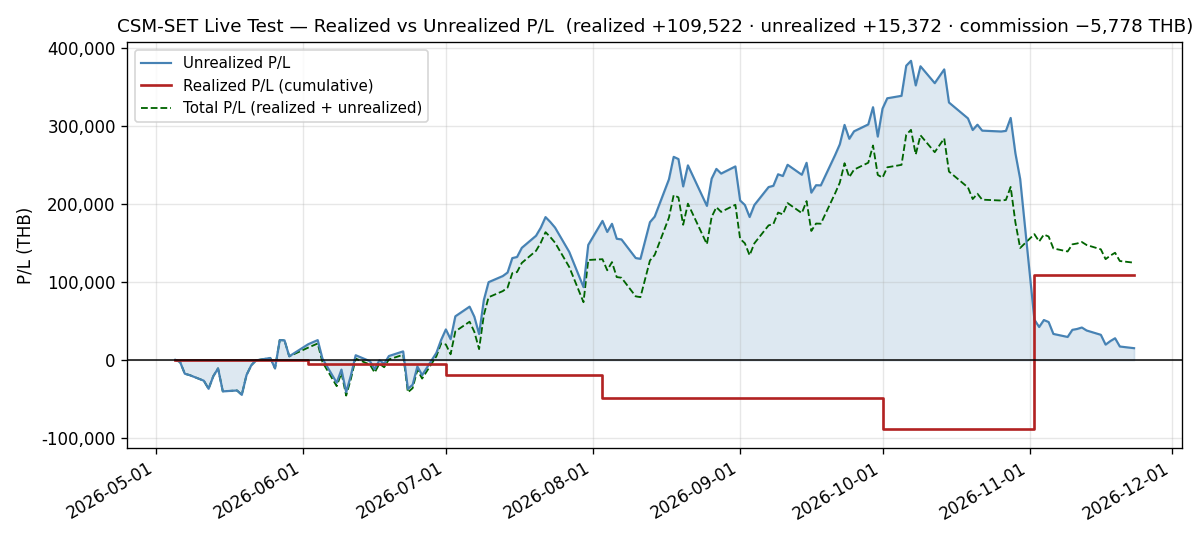
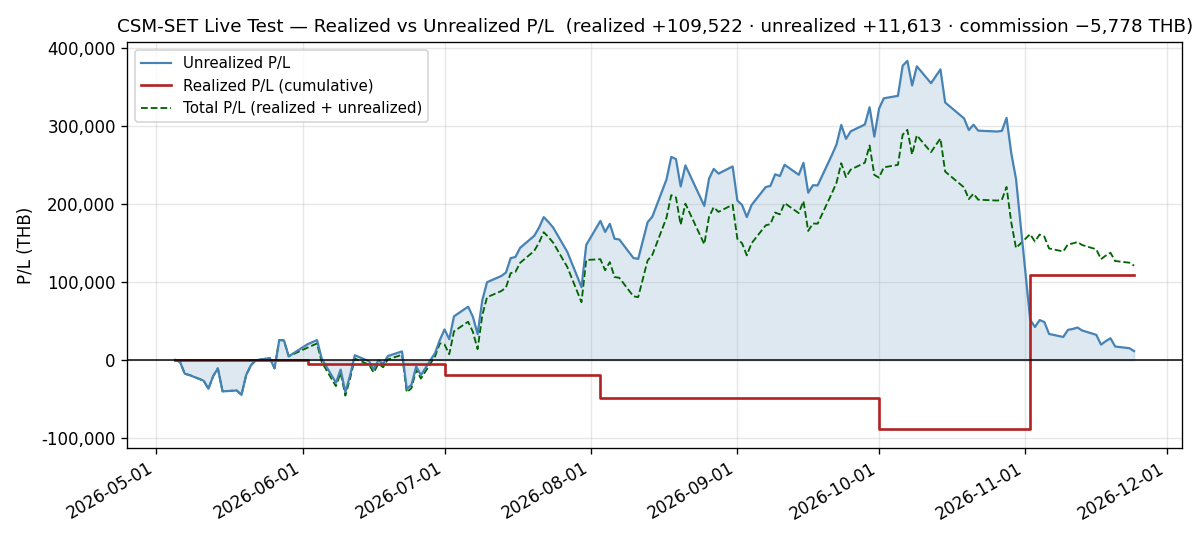
docs(live-test): add daily log for 2026-11-24 (scored session 17 of 40)
NAV 1,239,524.32 THB, -3,759.00 (-0.3023%); window -1.7934%. Three names
rose and seven fell; IRPC -4.59% and CNT -9.02% led, and SMT went below
cost, so six of ten are below cost. The breaker stays TRIPPED at a rolling
drawdown of -12.3071%, the deepest in the published NAV series; the regime
stays BEAR and the SET closed at its lowest since 2026-03-31. One universe
fetch (a name the book does not hold) failed its WebSocket connect and
succeeded on retry. pnl.csv row and the P/L chart regenerated; the three NAV
charts are byte-identical.

Claude-Session: https://claude.ai/code/session_01VKyqnmKmz6Hh9ErHRFMhFr

diff --git a/docs/live-test/daily/2026-11-24.md b/docs/live-test/daily/2026-11-24.md
@@ -1,0 +1,289 @@
+# Daily Log — 2026-11-24 (Tuesday)
+
+**As of:** 2026-11-24, Asia/Bangkok
+**Phase:** D — Final Evaluation & Documentation
+**Day:** 139 / 23 trading days remaining in 2026
+**Status:** 🟢 **SCORED — session 17 of 40 in the registered window** (`reports/2026-10-27-forward-scoring-pre-registration.md`). **NAV closes at 1,239,524.32 THB, −3,759.00 (−0.3023%) on the session and −1.7934% on NAV₀ = 1,262,159.89**, its lowest close since 2026-08-11. **Three names rose and seven fell**; IRPC −4.59% and CNT −9.02% led, and SMT went below cost, so **six of ten are now below cost**. 🔴 **The circuit breaker stays TRIPPED**, its rolling drawdown deepening to **−12.3071%**, the deepest in the published NAV series. 🔴 **The regime stays BEAR**; the SET fell −0.1953% to its lowest close since 2026-03-31. 🟢 **The sixth scheduled refresh on image `239921e2a7bd` completed** (211 / 0); one universe fetch needed a retry, which worked (Risk Note 6). ⚠ **106 of 959 holiday polls banked** since the settfex 0.26.3 upgrade (Risk Note 7). Total Return on NAV is **+10.67%**.
+
+---
+
+## Execution Summary
+
+**No trades today.** The book is the one recorded from the 2026-11-02 rotation (`configs/live_portfolio.yaml` at `2f846b0`), unchanged since. Realized P/L for the session is **0.00 THB** and no commission was paid. **The breaker's safe mode acts only at a month-end evaluation**, so equity at 17.0507% of NAV creates no trade. The next evaluation is **2026-11-30** (registration §3).
+
+---
+
+## Portfolio Snapshot
+
+> 🟢 **Every figure in this section is SCORED-WINDOW data, session 17.** It is `configs/live_portfolio.yaml` at `2f846b0` repriced against the 2026-11-24 bar of `data/processed/prices_latest.parquet`, and it **equals** the `db_gateway.daily_performance` row the 18:00 refresh wrote.
+
+`Avg Cost` is the commission-inclusive per-share basis carried from `configs/live_portfolio.yaml` (4-decimal precision); `Cost Basis = shares × Avg Cost`, and `U.PL % = MV / Cost Basis − 1`.
+
+| # | Symbol | Shares | Avg Cost | Last Price | Market Value (THB) | Cost Basis (THB) | U.PL % |
+|---|--------|-------:|---------:|-----------:|--------------------:|-----------------:|-------:|
+| 1 | IRPC | 11,300 | 2.3037 | 2.08 | 23,504.00 | 26,031.81 | −9.71% |
+| 2 | HANA | 600 | 35.8070 | 46.00 | 27,600.00 | 21,484.20 | +28.47% |
+| 3 | GUNKUL | 6,100 | 2.9246 | 4.54 | 27,694.00 | 17,840.06 | +55.23% |
+| 4 | INSET | 8,400 | 3.0848 | 3.34 | 28,056.00 | 25,912.32 | +8.27% |
+| 5 | KCE | 500 | 39.0655 | 53.25 | 26,625.00 | 19,532.75 | +36.31% |
+| 6 | EPG | 3,400 | 5.9099 | 5.28 | 17,952.00 | 20,093.66 | −10.66% |
+| 7 | SMT | 4,000 | 5.8097 | 5.68 | 22,720.00 | 23,238.80 | −2.23% |
+| 8 | CNT | 3,600 | 3.3456 | 2.22 | 7,992.00 | 12,044.16 | −33.64% |
+| 9 | SPRC | 1,200 | 13.8232 | 12.20 | 14,640.00 | 16,587.84 | −11.74% |
+| 10 | SSP | 2,200 | 7.7129 | 6.62 | 14,564.00 | 16,968.38 | −14.17% |
+
+### Portfolio summary
+
+| Metric | Value |
+|--------|-------|
+| Total Cost Basis | 199,733.98 THB |
+| Total Market Value | 211,347.00 THB |
+| Unrealized P/L | +11,613.02 THB (+5.81%) |
+| Realized P/L (today) | 0.00 THB |
+| Realized P/L (cumulative, since inception) | **+109,521.83 THB** |
+| Commission paid (cumulative) | **−5,777.54 THB** |
+
+### Account summary
+
+| Metric | Value |
+|--------|-------|
+| Remaining Cash | 1,028,177.32 THB |
+| Total NAV | 1,239,524.32 THB |
+| Total Return on NAV | +10.67% |
+
+> **Cost-basis note:** Total Cost Basis is **199,733.98 THB**, equal to Σ per-symbol `shares × avg_cost` with a **0.00** delta, unchanged since the rotation.
+>
+> **Above/below cost: 4 up / 6 down.** **SMT** (−2.23%) went below cost and joined **CNT** (−33.64%), **SSP** (−14.17%), **SPRC** (−11.74%), **EPG** (−10.66%) and **IRPC** (−9.71%). HANA, GUNKUL, INSET and KCE are above.
+>
+> **Equity is 17.0507% of NAV** (211,347.00 of 1,239,524.32), down from 17.3014%. The breaker acts only at the month-end evaluation.
+>
+> **Total P/L check:** realized + unrealized = 109,521.83 + 11,613.02 = **+121,134.85 THB**, down from +124,893.85 by **3,759.00**, exactly the session's NAV change.
+
+---
+
+## Day-over-Day Change (vs Monday November 23)
+
+| Symbol | Nov 23 Close | Nov 24 Close | Change | Change % | MV Contribution (THB) |
+|--------|-------------:|-------------:|-------:|---------:|----------------------:|
+| HANA | 45.50 | 46.00 | +0.50 | +1.10% | +300.00 |
+| KCE | 53.00 | 53.25 | +0.25 | +0.47% | +125.00 |
+| EPG | 5.26 | 5.28 | +0.02 | +0.38% | +68.00 |
+| GUNKUL | 4.60 | 4.54 | -0.06 | -1.30% | -366.00 |
+| INSET | 3.40 | 3.34 | -0.06 | -1.76% | -504.00 |
+| SPRC | 12.45 | 12.20 | -0.25 | -2.01% | -300.00 |
+| SSP | 6.82 | 6.62 | -0.20 | -2.93% | -440.00 |
+| SMT | 5.86 | 5.68 | -0.18 | -3.07% | -720.00 |
+| IRPC | 2.18 | 2.08 | -0.10 | -4.59% | -1,130.00 |
+| CNT | 2.44 | 2.22 | -0.22 | -9.02% | -792.00 |
+| **Total** | | | | **-1.75%** | **-3,759.00** |
+
+**Breadth: 3 up, 7 down, 0 flat.**
+
+> The `Change %` on the Total row is the **market-value** change (−3,759.00 / 215,106.00 = −1.7475%), not the NAV change (−3,759.00 / 1,243,283.32 = −0.3023%). They differ by the cash in the NAV denominator, 82.70% of the prior session's NAV in safe mode.
+>
+> 🟢 **Every `Nov 23 Close` above is the published one, and the current panel agrees on all ten names**, so no held name was restated on this session.
+
+**Seven names fell; the three risers added +493.00 against −4,252.00.**
+
+- **IRPC −4.59% (−1,130.00)** was the session's largest loss in THB, its largest fall since 2026-11-20. It closed at its lowest since 2026-07-30, and its U.PL is −9.71%.
+- **CNT −9.02% (−792.00)** was the largest fall in percent. It closed at its lowest since 2026-08-14, and its U.PL is −33.64%. Over the two sessions since 2026-11-20 it is down −26.00%, from 3.00 to 2.22.
+- **SMT −3.07% (−720.00)** is its largest fall since 2026-11-20 and its lowest close since 2026-09-14. Its U.PL went from +0.87% to −2.23%.
+- **SPRC** closed at its lowest since 2026-08-25 and **INSET** at its lowest since 2026-06-11.
+- **HANA +1.10% (+300.00)**, **KCE +0.47% (+125.00)** and **EPG +0.38% (+68.00)** were the only risers.
+- **NAV is at its lowest since 2026-08-11.**
+- **The book fell −0.3023% and the SET −0.1953%**, a **−0.1071pp** difference. It is a same-session arithmetic result for a book that is 82.95% cash, not a performance comparison (Market Context).
+
+No cause is stated for any of these moves; none was looked up.
+
+---
+
+## Market Context
+
+| Indicator | Value | Source |
+|-----------|-------|--------|
+| SET Index | 1,451.65 | tvkit (TradingView) |
+| SET Open / High / Low | 1,471.03 / 1,471.03 / 1,451.65 | tvkit |
+| SET 200-day SMA | 1,530.1868 | tvkit (TradingView) |
+| Regime Estimate | BEAR | SET −5.13% below SMA200 |
+
+> ⚠ **This is context, NOT a benchmark comparison, and it must not be read as one.**
+>
+> - **Different price bases.** `SET:SET` is a **price index**; the strategy series above is priced on **dividend-adjusted** bars (since `e04a292`, 2026-08-09). The difference is one-sided in the strategy's favour, and it is not small: measured 2026-09-11 over 2024-03-19 → 2026-09-10, the dividend adjustment is worth **+12.09 percentage points** on this universe, roughly **+4.8%/yr**.
+> - **No alpha, excess return or outperformance figure is computed anywhere in this log.** The registration's tracking error against this index is reported in Risk Note 1 as a risk metric (§5).
+
+---
+
+## Regime State
+
+- **Detected regime:** 🔴 **BEAR**, the seventeenth session. SET (1,451.65) is **below** SMA200 (1,530.1868) by −5.1325%.
+- **SMA200 position:** 1,530.1868, with the SET closing 78.54 points under it.
+- **3-month return:** −9.83% (window-sensitive — see Notes).
+- **The engine's own `RegimeDetector.detect()` also returns BEAR**: price below SMA200, and a 63-session return of **−9.05%** against its −5% threshold.
+- **No regime-driven action under the registration.** The regime filter is not one of the registered rules (§4). The SET closed −5.98% below its own EMA100 and −3.85% below its EMA200; both are reported and not applied.
+
+**The last six closes read 1,474.68 → 1,472.01 → 1,472.64 → 1,453.28 → 1,454.49 → 1,451.65.**
+
+- **Today:** a **−2.84 point, −0.1953%** session. The index is **−10.4964%** below the 2026-09-08 high.
+- **The SET's lowest close since 2026-03-31**, on bars fetched back to 2020-09-15.
+- **Range:** **19.38 points**, against 14.05 the prior session. The index opened at its high of 1,471.03 and closed at its low of 1,451.65.
+- **Cushion fell −4.9105% → −5.1325%, a −0.2220pp step**, to its lowest since 2025-07-24. SMA200 rose to **1,530.1868** (+0.5860).
+- **A BEAR→BULL crossing needs the index 78.54 points higher**, +5.41% at today's SMA200.
+
+The 3-month figure moved from −9.65% to −9.83%, its start bar moving from 2026-08-19 (1,609.76) to 2026-08-20 (1,609.99).
+
+---
+
+## Sector Concentration
+
+Groupings are SET-official, as on 2026-11-02. The book is held at about 20% equity by the breaker's safe mode.
+
+| Sector | Market Value (THB) | % of NAV | % of stocks held | Limit (NAV) | Status |
+|--------|--------------------:|---------:|-----------------:|-------------|--------|
+| Energy & Utilities (ENERG) | 80,402 | 6.4865% | 38.0427% | 35% | OK on NAV |
+| Electronic Components (ETRON) | 76,945 | 6.2076% | 36.4070% | 35% | OK on NAV |
+| ICT | 28,056 | 2.2634% | 13.2749% | 35% | OK |
+| Construction Materials (CONMAT) | 17,952 | 1.4483% | 8.4941% | 35% | OK |
+| Construction Services (CONS) | 7,992 | 0.6448% | 3.7815% | — | below the 5% floor by ruling I5 |
+
+- **ENERG fell −0.1603pp to 6.4865%**, with all four of its names lower (IRPC, SSP, SPRC, GUNKUL), and **still leads**. ETRON −0.0050pp: HANA and KCE rose and SMT fell. ICT −0.0337pp on INSET, CONS −0.0617pp on CNT, CONMAT +0.0099pp on EPG.
+- **The 35% cap is measured on NAV** (I2), and no sector is near it.
+- **As a share of the stocks held, ENERG is 38.04% and ETRON 36.41%.** The two hold 74.45% of the equity sleeve between them. This is recorded for context; it is not the registered measure.
+- **Every position is below the 5% floor**, between 0.6448% (CNT) and 2.2634% (INSET) of NAV. The breaker governs the band (I5), so **these are not deviations**.
+
+---
+
+## Risk Notes
+
+1. 🟢 **SCORED SESSION 17 OF 40.**
+
+   | Measure (registration §5) | Value |
+   |---|---|
+   | NAV₀ (2026-10-30 close) | 1,262,159.89 |
+   | NAV₁₆ (2026-11-23 close) | 1,243,283.32 |
+   | NAV₁₇ (2026-11-24 close) | 1,239,524.32 |
+   | r₁₇ = NAV₁₇ / NAV₁₆ − 1 | **−0.3023%** |
+   | Window return to date | **−1.7934%** |
+   | Max drawdown to date (running peak from NAV₀) | **−3.1503%** (2026-11-24, from the 2026-11-02 peak) |
+   | Annualized volatility (n = 17) | 10.69% |
+   | Sharpe, rf = 2% (n = 17) · rf = 0 | −2.65 · −2.46 |
+   | Tracking error vs `SET:SET` (n = 17) | 11.52% |
+
+   **Seventeen returns carry almost no information**, and annualizing them magnifies that. **No criterion is graded before the window ends** (2026-12-30), and §9's power statement applies to every figure here.
+2. 🟢 **DB — no restatement on this session.**
+   - **`daily_performance` equals this log.** The row reads **1,239,524.32, cash 1,028,177.32**, and today's `equity_curve` row agrees.
+   - **`daily_return` reads −0.3023%**, equal to this log's day-over-day change to within 1×10⁻¹⁹, because no held name was restated.
+   - `cumulative_return` and `combined_drawdown` both read −3.1415%. They are measured from `entry_date` 2026-11-02 on the basis restated for GUNKUL's ex-dividend date (the 2026-11-20 log, Risk Note 2), and they are not the scored series (§5). On the published basis the same span is −3.1503%, the max drawdown in Risk Note 1.
+3. 🔴 **CIRCUIT BREAKER — TRIPPED, threaded one session (I4).**
+   - **Procedure:** `DrawdownCircuitBreaker` with the recorded parameters (60 sessions, −10% trip, −5% recovery held 21 sessions), called with the state carried from 2026-11-23 (TRIPPED, recovery progress 0) on the published NAV series. It returns **TRIPPED**, rolling drawdown **−12.3071%**, equity fraction **0.20**, no transition.
+   - The drawdown deepened from −12.0412% on 2026-11-23, so it is again **the deepest in the published NAV series**. **Recovery needs it above −5%**, so the state does not move.
+   - The 2026-10-07 peak (1,413,483.89) is still the window's high.
+   - **Recovery** starts when the rolling drawdown rises above −5%, at NAV **1,342,809.70**. That is **103,285.38 (+8.3327%)** above today's NAV. From a book 17.05% in stocks, it needs the equity sleeve to rise about **48.87%**.
+   - **The 1,064,000 THB line** (5% below `starting_nav`) has NAV **+175,524.32** (14.16%) above it. Under the registration it is a reporting line and carries no action.
+4. 🔴 **REGIME — BEAR, the seventeenth session** (Regime State). Under the registration it changes nothing. The transition is recorded in `events/2026-11-02-regime-transition-bull-to-bear.md`.
+5. 🟢 **EXECUTION — CLOSED** by the operator's ruling of 2026-11-04: the operator places every order by hand (registration §12; `events/2026-11-03-rotation-orders-placed-as-limit-orders.md`). Nothing changed since.
+6. 🟢 **REFRESH — the sixth scheduled firing on image `239921e2a7bd` completed with zero failures.** It started at 11:00:00Z and completed at 11:02:03Z with receipt 211 / 0, in 121.305 s.
+   - **One fetch needed a second attempt, and the retry worked.** At 11:01:41.970Z tvkit logged the ERROR *"Failed to establish WebSocket connection"* while fetching `SET:WIIK`, which the book does not hold. The loader logged *"Transient error fetching SET:WIIK (attempt 1/4)"* and retried, and the retry fetched 600 bars at 11:01:42.707Z. It is the first ERROR line in this container's log.
+   - **Both phases completed on their first phase attempt** (`retry_attempts_used=0`): held `requested=10 recovered=10 still_failing=0`, universe `requested=201 recovered=201 still_failing=0`.
+   - **No bound fired.** The container log since the image started holds no "Failed to fetch symbol" line, no "timed out" line and no "daily_refresh exceeded" line. [[TK-0657]]
+7. ⚠ **HOLIDAY POLL — 106 of 959 polls banked since the settfex 0.26.3 upgrade (11.1%); 46 of 380 on the current image.**
+
+   | Window | Image | Poll runs | Banked | Failure lines |
+   |---|---|---:|---:|---|
+   | 2026-11-04T12:20:14Z → 2026-11-05T11:20:14Z | `db0cb596918c` | 47 | 7 | logged at DEBUG; 1 run after the saved log, not banked |
+   | 2026-11-05T11:26:33Z → 2026-11-13T11:56:33Z | `7e49ed4f6a87` | 386 | 37 | 348, all `FetchError status_code=401`; 1 run after the saved log, not banked |
+   | 2026-11-13T12:16:34Z → 2026-11-16T13:16:34Z | `5bf4e130cfd6` | 146 | 16 | 128, all `FetchError status_code=401`; 3 runs after the saved log, 1 banked and 2 not |
+   | 2026-11-16T13:22:10Z → 2026-11-24T10:52:10Z | `239921e2a7bd` | 380 | 46 | 334, all `FetchError status_code=401` |
+   | **Total** | | **959** | **106** | |
+
+   - **The longest gap between two banked polls is still 45 h 30 m** (2026-11-20 10:22Z → 2026-11-22 07:52Z).
+   - **The stale-table warning continues.** The container logged *"committed 2026 fallback table is STALE vs the live calendar — promote: 2026-12-16"* at the 2026-11-20, 2026-11-23 and 2026-11-24 firings. The running image predates `941f406`, which added the date to the committed table on 2026-11-20; the banked calendar, which the refresh reads, has it.
+   - **Outside csm-set:** the platform's own market calendar still read 2026-12-16 as a trading day when checked on 2026-11-24. The finding was posted to `session:pm` on #461 on 2026-11-20, and it has no reply.
+   - **How banked polls are counted.** The observer's record covers the second image's first 99 runs (6 banked). After it ended on 2026-11-07T12:33:49Z, a run with no failure line counts as banked.
+   - **Runs whose log was lost** are counted when the banked calendar file decides their outcome. This is the rule adopted in the 2026-11-17 log. One run, 2026-11-16T11:46:34Z, cannot be decided and is left out.
+   - **Positive control:** the latest run before the 18:00 firing with no failure line, 23:22:10Z on 2026-11-23, matches the `captured_at` of 2026-11-23T23:22:10Z that the firing read.
+   - **Exposure:** polls banked per Bangkok date since the upgrade (2026-11-04: 2, 2026-11-05: 5, 2026-11-06: 4, 2026-11-07: 2, 2026-11-08: 7, 2026-11-09: 3, 2026-11-10: 3, 2026-11-11: 6, 2026-11-12: 6, 2026-11-13: 8, 2026-11-14: 3, 2026-11-15: 1, 2026-11-16: 11, 2026-11-17: 10, 2026-11-18: 11, 2026-11-19: 6, 2026-11-20: 8, 2026-11-21: 0, 2026-11-22: 2, 2026-11-23: 6, 2026-11-24: 2 to the 18:00 firing).
+8. 🟢 **INFRA — no change since 2026-11-23.**
+   - The container has run image `239921e2a7bd` since 2026-11-16 at 20:21:26 BKK. This session's refresh is its sixth.
+   - **Rollback image kept:** `rollback-20261116` → `5bf4e130cfd6`.
+   - **Not yet deployed:** `941f406` (the committed holiday table, Risk Note 7). It ships with the next image build; none is planned in this log.
+   - **The missing-receipt alert** (TK-0657, closed) runs on HOME (#464). This session's report landed at 18:02 BKK, before the 22:30 BKK due time.
+9. 🟢 **Bands, by ruling.** The 35% cap is measured on NAV, where ENERG leads at 6.4865% (I2). Every position is below the 5% floor (I5). [[TK-0279]]
+10. ⚠ **The uncredited dividend total is unchanged at 9,049.00 THB**: KCE 1,560.00, INSET 2,100.00, MGC 2,208.00, FORTH 795.00, IRPC 2,264.00, GUNKUL 122.00.
+    - That is **0.73% of NAV** and **7.47%** of the +121,134.85 total P/L.
+    - The registration reports dividends beside each score and does not credit them (§8).
+11. ⚠ **DOC — the `csm-set-daily-log` skill's `daily_return` guidance remains stale.** Its Step 3 still calls the field *"an open defect, not yet fixed in code"*; it was fixed 2026-09-02. **Fifty-third log to carry this.**
+12. **Open decisions — answered for the scored window, by the registration's §8 and §12 and the 2026-10-31 rulings.**
+
+    | Decision | Registered for the window |
+    |---|---|
+    | EMA100 | per holding |
+    | Bands | bind at construction, on the names being traded; the breaker governs them in safe mode (I5) |
+    | Sector cap | measured on NAV, checked on the scaled book (I2) |
+    | Breaker state | advances every trading session (I4) |
+    | Price history | the published NAV, frozen at publication |
+    | Dividends | not credited, reported beside each score |
+    | Fill rule | the operator places every order by hand (amendment of 2026-11-04, registration §12) |
+
+---
+
+## Notes
+
+- **Scheduled refresh completed via APScheduler with zero failures.**
+  - `"Scheduled daily_refresh completed"` at **2026-11-24T11:02:03Z** (18:02 BKK).
+  - It was the 18:00 cron firing (`cron[... day_of_week='mon-fri', hour='18', minute='0']`, started 11:00:00Z).
+  - Receipt: `symbols_fetched=211, failures=0, duration_seconds=121.305, held_symbols_fetched=10, held_symbols_failed=0, retry_attempts_used=0, index_fetched=true`, corroborated by `results/.tmp/last_refresh.json`.
+  - The held phase ended `requested=10 recovered=10 still_failing=0` at 11:00:09Z, and the universe phase `requested=201 recovered=201 still_failing=0` at 11:01:42Z. The gateway accepted the daily report (`201`) at 11:02:03Z.
+  - The firing's own log line gives the next run as 2026-11-25 18:00 +07.
+- **No manual trigger, checked on the access log's fields.**
+  - Every access record since the container started was parsed, and its `method` and `path` fields were tested for a `POST` to a path under `/api/v1/scheduler/run`. There were 22,580 access records, all `GET /health`, and no `POST` of any kind.
+  - **Positive control:** the same parse finds a synthetic access record with method `POST` and path `/api/v1/scheduler/run/daily_refresh` appended to a copy of the log.
+- **The log holds one ERROR since the container started**, the WebSocket failure in Risk Note 6. Of 31,704 JSON records, 31,696 are INFO, one is ERROR and seven are WARNING: the startup notice that `CSM_API_KEY` is unset (2026-11-16T13:21:39Z), five calendar warnings (two at 2026-11-19T17:52:11Z, and the stale-table warning at the 2026-11-20, 2026-11-23 and 2026-11-24 firings), and the loader's retry warning in Risk Note 6.
+- **The container runs image `239921e2a7bd`**, its sixth scheduled refresh.
+  - `Created` 2026-11-16T13:21:26Z, `StartedAt` 13:21:28Z, `RestartCount` 0. `FinishedAt` is unset (0001-01-01) because this container has never stopped.
+  - The host has not rebooted since 2026-10-06 (`uptime -s` 2026-10-06 10:46:02).
+- **`SET:THCOM` was fetched with 600 bars again.**
+- **The price panel and the prior log agree on all ten names.**
+- **The panel's row count fell 892 → 891.** Every row still carries a 09:55 Bangkok stamp, the column count is unchanged at **211**, and no session date is duplicated.
+- **Row-integrity checks pass.** `db_csm_set.equity_curve` holds **exactly one row per trading day at `00:00:00+00`** (138 rows, 138 dates, none off midnight), and today's row equals `daily_performance.total_value`.
+- **`configs/live_portfolio.yaml` is unchanged** since `2f846b0`.
+- **The P/L identity holds.** `realized_cum + unrealized − (NAV − starting_nav)` = 109,521.83 + 11,613.02 − 119,524.32 = **1,610.53 THB**, unchanged.
+- **Every figure was verified rather than asserted.**
+  - Σ position market value equals Total Market Value exactly (211,347.00).
+  - **Total NAV (1,239,524.32) equals `db_gateway.daily_performance.total_value` to the satang**, and cash equals the YAML's 1,028,177.32.
+  - The contributions sum to the session's NAV change (−3,759.00) exactly.
+  - The sector table sums to Total Market Value exactly.
+  - Σ per-symbol cost basis matches Total Cost Basis with a **0.00** delta, and the position count is 10.
+  - All money arithmetic used `Decimal` with explicit half-up rounding, and so did SMA200.
+- **Realized P/L and commission ledger, unchanged.**
+  - Realized cumulative **+109,521.83 THB**: 2026-06-02 −4,351.87 · 2026-07-01 −14,964.06 · 2026-08-03 −29,775.45 · 2026-10-01 −39,365.29 · 2026-11-02 +197,978.50.
+  - Commission cumulative **−5,777.54 THB**: 05-05 1,611.15 · 06-02 984.44 · 06-04/05 169.09 · 07-01 287.83 · 08-03 682.65 · 10-01 201.81 · 11-02 1,840.57.
+- **Capital events to date, unchanged.** `starting_nav` 1,120,000 after 1,000,000 → 1,100,000 (2026-06-04, +100,000) → 1,120,000 (2026-08-03, +20,000).
+- **Every superlative was computed, and each names its window.**
+
+  | Claim | Window | Source |
+  |---|---|---|
+  | IRPC's and SMT's falls; the lows of IRPC, CNT, SMT, SPRC and INSET | the whole panel, which starts 2024-06-06 for nine of these names and 2024-06-04 for CNT | the panel |
+  | NAV's lowest since 2026-08-11 | the published NAV series, from 2026-05-04 | `daily_performance` |
+  | The SET's lowest close since 2026-03-31; the cushion's lowest since 2025-07-24 | bars fetched back to 2020-09-15, so the cushion series starts 2021-07-14 | tvkit |
+- **3-month return figure is window-sensitive.** −9.83% is measured over the trailing 66 bars from today's close (start bar 2026-08-20, 1,609.99). The engine's 63-session figure is −9.05%. The regime estimate uses the SMA200 only.
+- **Follow-ups for the next session (Wednesday 2026-11-25 18:00 +07).**
+
+  | | Item | Level |
+  |---|---|---|
+  | (a) | the breaker state, threaded once | TRIPPED; rolling drawdown −12.3071%; recovery above 1,342,809.70 |
+  | (b) | the regime | BEAR; 78.54 points to a BULL crossing |
+  | (c) | the holiday-poll rate and the longest gap | banked ÷ run under the one rule; 45 h 30 m |
+  | (d) | #461, and the 2026-12-16 closure in the platform's calendar | `session:pm`'s |
+  | (e) | the next monthly evaluation | 2026-11-30 |
+  | (f) | `941f406` reaching the image | the next image build |
+
+  **The six follow-ups from 2026-11-23 are closed above or elsewhere:**
+  - (a) Risk Note 3; (b) Risk Note 4; (c) Risk Note 7;
+  - (d) Risk Note 7: #461 has no reply;
+  - (e) the evaluation date is unchanged;
+  - (f) Risk Note 8: not yet in the running image.
+- **Calendar.** 2026-11-24 was a trading session.
+  - The 18:00 firing read the banked SET holiday calendar (`results/.tmp/set_holidays.json`) at `captured_at 2026-11-23T23:22:10Z`, with 21 closures.
+  - The banked calendar lists the remaining 2026 closures as **2026-12-07**, **2026-12-10**, **2026-12-16** and **2026-12-31**. The next session is **2026-11-25**.
+  - No trading hours are stated anywhere in this log.
+- Data fetched via tvkit (TradingView, free tier): all 10 held-symbol prices from the 18:00 BKK scheduled-cron refresh; SET Index context anchored explicitly to the 2026-11-24 bar. ⚠ **The vendor back-adjusts a symbol's entire history on an ex-dividend date**, so any prior-session price quoted here is the vendor's *current* view of that session and not necessarily what was published at the time.

diff --git a/docs/live-test/graphs/README.md b/docs/live-test/graphs/README.md
@@ -1,9 +1,9 @@
 # Live-Test Charts — how these are generated
 
-_🟢 **The three NAV charts are on the October month-end, 2026-10-30; the P/L chart is newer, 2026-11-23.** The three **NAV** charts
+_🟢 **The three NAV charts are on the October month-end, 2026-10-30; the P/L chart is newer, 2026-11-24.** The three **NAV** charts
 (`equity_curve`, `drawdown`, `monthly_returns`) were regenerated on 2026-10-30 from `nav_actual.csv` /
 `nav_twr.csv` extended to **121 points** (2026-05-04 → 2026-10-30). `pnl_realized_unrealized.png` was
-regenerated on 2026-11-23 from `pnl.csv` (**137 rows**, through 2026-11-23; its newest realized step is the 2026-11-02 rotation's). ⚠ **The September rows of the two NAV CSVs
+regenerated on 2026-11-24 from `pnl.csv` (**138 rows**, through 2026-11-24; its newest realized step is the 2026-11-02 rotation's). ⚠ **The September rows of the two NAV CSVs
 come from `db_gateway.daily_performance`, not `equity_curve`** — IRPC's 2026-09-09 restatement rewrote the
 `equity_curve` rows it would otherwise have supplied; see the 2026-09-30 History entry. **The October rows
 are the published daily-log NAVs**, which equal `equity_curve` on every October session; `daily_performance`
@@ -262,14 +262,24 @@ restatement has rewritten `equity_curve` rows inside the month being appended, *
 | `monthly_returns.png` | May **+0.33%** · Jun **+1.44%** · Jul **+9.53%** · Aug **+5.68%** · Sep **+2.90%** · Oct **−6.90%** (no flow in September or October, so the TWR and actual-NAV figures agree for both) |
 | **August bar is the TWR figure** | **+5.68%**, NOT the reported +7.40% and NOT the ex-injection +5.77%. Feeding `nav_actual.csv` instead reproduces the documented failure mode — **Jun +11.62%** and Aug +7.40% |
 | June bar vs the June review | must read **+1.44%**, not +11.62% |
-| `pnl_realized_unrealized.png` *(the 2026-11-23 PNG, through 11-23)* | realized **+109,521.83** · unrealized **+15,372.02** · commission **−5,777.54** THB; the realized line is **flat except at 2026-06-02, 2026-07-01, 2026-08-03, 2026-10-01 and 2026-11-02** — **five** steps, the last one upward. *(The 2026-11-20 PNG read the same realized and commission with unrealized +17,522.02 at 136 points; the 2026-11-19 PNG read the same realized and commission with unrealized +28,102.02 at 135 points; the 2026-11-18 PNG read the same realized and commission with unrealized +24,460.02 at 134 points; the 2026-11-17 PNG read the same realized and commission with unrealized +19,929.02 at 133 points; the 2026-11-16 PNG read the same realized and commission with unrealized +32,518.02 at 132 points; the 2026-11-13 PNG read the same realized and commission with unrealized +38,044.02 at 131 points; the 2026-11-12 PNG read the same realized and commission with unrealized +41,863.02 at 130 points; the 2026-11-11 PNG read the same realized and commission with unrealized +40,003.02 at 129 points; the 2026-11-10 PNG read the same realized and commission with unrealized +38,865.02 at 128 points; the 2026-11-09 PNG read the same realized and commission with unrealized +29,761.02 at 127 points; the 2026-11-06 PNG read the same realized and commission with unrealized +33,639.02 at 126 points; the 2026-11-05 PNG read the same realized and commission with unrealized +48,895.02 at 125 points; the 2026-11-04 PNG read the same realized and commission with unrealized +51,445.02 at 124 points; the 2026-11-03 PNG read the same realized and commission with unrealized +42,526.02 at 123 points; the 2026-11-02 PNG read the same realized and commission with unrealized +51,932.02 at 122 points; the 2026-10-30 PNG read realized −88,456.67 · unrealized +232,227.03 · commission −3,936.97 at 121 points, with four steps; the 2026-10-29 PNG read the same realized and commission with unrealized +264,919.03 at 120 points; the 2026-10-28 PNG read the same realized and commission with unrealized +310,400.03 at 119 points; the 2026-10-27 PNG read the same realized and commission with unrealized +293,787.03 at 118 points; the 2026-10-26 PNG read the same realized and commission with unrealized +293,003.03 at 117 points; the 2026-10-22 PNG read the same realized and commission with unrealized +294,101.03 at 116 points; the 2026-10-21 PNG read the same realized and commission with unrealized +301,696.03 at 115 points; the 2026-10-20 PNG read the same realized and commission with unrealized +294,904.03 at 114 points; the 2026-10-19 PNG read the same realized and commission with unrealized +309,815.03 at 113 points; the 2026-10-15 PNG read the same realized and commission with unrealized +330,143.03 at 112 points; the 2026-10-14 PNG read the same realized and commission with unrealized +372,572.03 at 111 points; the 2026-10-12 PNG read the same realized and commission with unrealized +354,949.03 at 110 points; the 2026-10-09 PNG +376,567.03 at 109; the 2026-10-08 PNG +352,021.03 at 108; the 2026-10-07 PNG +383,551.03 at 107; the 2026-10-06 PNG +377,303.03 at 106; the 2026-10-05 PNG +338,709.03 at 105; the 2026-10-02 PNG +335,559.03 at 104; the 2026-10-01 PNG +322,278.03 at 103.)* *(The 2026-08-31 PNG read:* realized **−49,091.38** · unrealized **+248,232.35** · commission **−3,735.16** THB; the realized line is **flat except at 2026-06-02, 2026-07-01 and 2026-08-03** — **three** steps.) *(The superseded 2026-08-28 render showed −49,091.38 / +239,078.35 at 79 points; the 2026-08-27 one showed −49,091.38 / +245,069.35 at 78 points; the 2026-08-26 one showed −49,091.38 / +232,605.35 at 77 points; the 2026-08-25 one showed −49,091.38 / +197,671.35 at 76 points; the 2026-08-24 one showed −49,091.38 / +210,441.35 at 75 points; the 2026-08-21 one showed −49,091.38 / +249,619.35 at 74 points; the 2026-08-20 one showed −49,091.38 / +222,599.35 at 73 points; the 2026-08-19 one showed −49,091.38 / +257,693.35 at 72 points; the 2026-08-18 one showed −49,091.38 / +260,527.35 at 71 points; the 2026-08-17 one showed −49,091.38 / +231,713.35 at 70 points; the 2026-08-14 one −49,091.38 / +183,951.35 at 69 points; the 2026-08-12 one −49,091.38 / +129,844.35 at 67 points; the 2026-08-01 one −19,315.93 / +147,665.89 / −3,052.51 and only two steps.)* |
-| `pnl.csv` last row *(the CSV and the P/L PNG are in sync — see the header)* | 2026-11-23: realized **+109,521.83** · unrealized **+15,372.02** · total **+124,893.85** · commission **5,777.54** THB; **137 rows**, matching `equity_curve`'s 137 **in row count only** *(↻ this row read 2026-08-31 / 80 rows until 2026-10-02: the September daily runs extended the CSV without updating it; it is updated with each session's History entry since)* — the values diverge historically after the KCE, INSET, MGC *and* FORTH restatements (see the header caveat) |
+| `pnl_realized_unrealized.png` *(the 2026-11-24 PNG, through 11-24)* | realized **+109,521.83** · unrealized **+11,613.02** · commission **−5,777.54** THB; the realized line is **flat except at 2026-06-02, 2026-07-01, 2026-08-03, 2026-10-01 and 2026-11-02** — **five** steps, the last one upward. *(The 2026-11-23 PNG read the same realized and commission with unrealized +15,372.02 at 137 points; the 2026-11-20 PNG read the same realized and commission with unrealized +17,522.02 at 136 points; the 2026-11-19 PNG read the same realized and commission with unrealized +28,102.02 at 135 points; the 2026-11-18 PNG read the same realized and commission with unrealized +24,460.02 at 134 points; the 2026-11-17 PNG read the same realized and commission with unrealized +19,929.02 at 133 points; the 2026-11-16 PNG read the same realized and commission with unrealized +32,518.02 at 132 points; the 2026-11-13 PNG read the same realized and commission with unrealized +38,044.02 at 131 points; the 2026-11-12 PNG read the same realized and commission with unrealized +41,863.02 at 130 points; the 2026-11-11 PNG read the same realized and commission with unrealized +40,003.02 at 129 points; the 2026-11-10 PNG read the same realized and commission with unrealized +38,865.02 at 128 points; the 2026-11-09 PNG read the same realized and commission with unrealized +29,761.02 at 127 points; the 2026-11-06 PNG read the same realized and commission with unrealized +33,639.02 at 126 points; the 2026-11-05 PNG read the same realized and commission with unrealized +48,895.02 at 125 points; the 2026-11-04 PNG read the same realized and commission with unrealized +51,445.02 at 124 points; the 2026-11-03 PNG read the same realized and commission with unrealized +42,526.02 at 123 points; the 2026-11-02 PNG read the same realized and commission with unrealized +51,932.02 at 122 points; the 2026-10-30 PNG read realized −88,456.67 · unrealized +232,227.03 · commission −3,936.97 at 121 points, with four steps; the 2026-10-29 PNG read the same realized and commission with unrealized +264,919.03 at 120 points; the 2026-10-28 PNG read the same realized and commission with unrealized +310,400.03 at 119 points; the 2026-10-27 PNG read the same realized and commission with unrealized +293,787.03 at 118 points; the 2026-10-26 PNG read the same realized and commission with unrealized +293,003.03 at 117 points; the 2026-10-22 PNG read the same realized and commission with unrealized +294,101.03 at 116 points; the 2026-10-21 PNG read the same realized and commission with unrealized +301,696.03 at 115 points; the 2026-10-20 PNG read the same realized and commission with unrealized +294,904.03 at 114 points; the 2026-10-19 PNG read the same realized and commission with unrealized +309,815.03 at 113 points; the 2026-10-15 PNG read the same realized and commission with unrealized +330,143.03 at 112 points; the 2026-10-14 PNG read the same realized and commission with unrealized +372,572.03 at 111 points; the 2026-10-12 PNG read the same realized and commission with unrealized +354,949.03 at 110 points; the 2026-10-09 PNG +376,567.03 at 109; the 2026-10-08 PNG +352,021.03 at 108; the 2026-10-07 PNG +383,551.03 at 107; the 2026-10-06 PNG +377,303.03 at 106; the 2026-10-05 PNG +338,709.03 at 105; the 2026-10-02 PNG +335,559.03 at 104; the 2026-10-01 PNG +322,278.03 at 103.)* *(The 2026-08-31 PNG read:* realized **−49,091.38** · unrealized **+248,232.35** · commission **−3,735.16** THB; the realized line is **flat except at 2026-06-02, 2026-07-01 and 2026-08-03** — **three** steps.) *(The superseded 2026-08-28 render showed −49,091.38 / +239,078.35 at 79 points; the 2026-08-27 one showed −49,091.38 / +245,069.35 at 78 points; the 2026-08-26 one showed −49,091.38 / +232,605.35 at 77 points; the 2026-08-25 one showed −49,091.38 / +197,671.35 at 76 points; the 2026-08-24 one showed −49,091.38 / +210,441.35 at 75 points; the 2026-08-21 one showed −49,091.38 / +249,619.35 at 74 points; the 2026-08-20 one showed −49,091.38 / +222,599.35 at 73 points; the 2026-08-19 one showed −49,091.38 / +257,693.35 at 72 points; the 2026-08-18 one showed −49,091.38 / +260,527.35 at 71 points; the 2026-08-17 one showed −49,091.38 / +231,713.35 at 70 points; the 2026-08-14 one −49,091.38 / +183,951.35 at 69 points; the 2026-08-12 one −49,091.38 / +129,844.35 at 67 points; the 2026-08-01 one −19,315.93 / +147,665.89 / −3,052.51 and only two steps.)* |
+| `pnl.csv` last row *(the CSV and the P/L PNG are in sync — see the header)* | 2026-11-24: realized **+109,521.83** · unrealized **+11,613.02** · total **+121,134.85** · commission **5,777.54** THB; **138 rows**, matching `equity_curve`'s 138 **in row count only** *(↻ this row read 2026-08-31 / 80 rows until 2026-10-02: the September daily runs extended the CSV without updating it; it is updated with each session's History entry since)* — the values diverge historically after the KCE, INSET, MGC *and* FORTH restatements (see the header caveat) |
 | The August regeneration *(**done** 2026-08-12, **superseded** by the 2026-08-14, 2026-08-17, 2026-08-18, 2026-08-19, 2026-08-20, 2026-08-21, 2026-08-24, 2026-08-25, 2026-08-26, 2026-08-27, 2026-08-28 and then the 2026-08-31 render)* | ✅ satisfied — the current PNG title reads `realized -49,091 · unrealized +248,232 · commission −3,735 THB`, the series ends 2026-08-31 at 80 points, and the realized line steps **three** times. Verified by eye against the rendered image, not only from the generator's stdout |
 | Only ONE PNG may change on a P/L regeneration | ✅ `gen_pnl_chart.py:118` writes `pnl_realized_unrealized.png` and nothing else. Checksum the four PNGs before and after: the three NAV charts must be **byte-identical** and keep their 2026-08-01 mtimes. Verified 2026-08-14, 2026-08-17, 2026-08-18, 2026-08-19, 2026-08-20, 2026-08-21, 2026-08-24, 2026-08-25, 2026-08-26, 2026-08-27, 2026-08-28 and 2026-08-31 — only the P/L PNG's hash moved on all twelve |
 | P/L reconciliation | `realized_cum + unrealized − (NAV − capital)` = **1,610.53** from 2026-11-02 (**1,610.47** for 2026-10-01 → 2026-10-30, **1,610.27** for 2026-08-03 → 2026-09-30, **1,609.61** for 2026-07-01 → 2026-07-31; every era since 2026-05-05 is listed in §Reconciliation residual, corrected 2026-10-31), and constant *within* each era; the 2026-11-02 step is **+0.06** (SPRC +0.02, SSP −0.08 against their all-in costs) and the 2026-10-01 step **+0.20**, CNT's: 4-dp `avg_cost` rounding both times. A *drifting* residual means a realisation was missed; the one-time **+0.66** step at the rotation is 4-dp `avg_cost` rounding — see above |
 | `commission_cum` | rises **only on the 8 fill dates** (05-05, 06-02, 06-04, 06-05, 07-01, 08-03, 10-01, **11-02**); a rise on any other day means a non-trading day was credited with a fill |
 
 ## History
+
+**`pnl.csv` extended through 2026-11-24** on 2026-11-24, appending the **2026-11-24** row — scored session 17,
+a no-trade session. `realized_cum` (+109,521.83) and `commission_cum` (5,777.54) are unchanged, so the realized
+line takes no step. Unrealized falls +15,372.02 → **+11,613.02** and `total_pl` +124,893.85 → **+121,134.85**
+(−3,759.00, exactly the session's NAV change); `total_pl` is at its lowest since 2026-08-11 in this CSV.
+The reconciliation residual holds at **1,610.53**.
+**`pnl_realized_unrealized.png` was regenerated in the same session**, so the two artifacts end together at
+**138 points**; the four PNGs were checksummed (md5) before and after, and the three NAV charts are
+byte-identical (`drawdown` 7df00897…, `equity_curve` 5ab54261…, `monthly_returns` 89088737…), with only the
+P/L chart's hash moving (d4c1e7cc… → **821e8056…**). Checked against the rendered image.
 
 **`pnl.csv` extended through 2026-11-23** on 2026-11-23, appending the **2026-11-23** row — scored session 16,
 a no-trade session. `realized_cum` (+109,521.83) and `commission_cum` (5,777.54) are unchanged, so the realized
